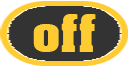
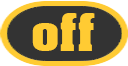
zmiana grafiki przeszkody, poprawiony wygląd trzech przyciskow oraz śmierć węża po dotknięciu przeszkody

diff --git a/Game/przeszkoda.py b/Game/przeszkoda.py
@@ -6,7 +6,7 @@ from Game.przeszkodaDirection import PrzeszkodaDirection
 class Przeszkoda():
     def __init__(self, game):
         self.game = game
-        self.commonPrzeszkodaImage2 = pygame.transform.scale(pygame.image.load("img/cytryna.png"), (self.game.gameBoard.sizeBlock, self.game.gameBoard.sizeBlock))
+        self.commonPrzeszkodaImage2 = pygame.transform.scale(pygame.image.load("img/bomb.png"), (self.game.gameBoard.sizeBlock, self.game.gameBoard.sizeBlock))
         self.przeszkoda_list = [self.commonPrzeszkodaImage2]
         self.przeszkody = []
 

diff --git a/Game/snake.py b/Game/snake.py
@@ -118,8 +118,8 @@ class Snake():
 
         if self.game.gameBoard.fields[int(self.purposeMove.x)][int(self.purposeMove.y)].przeszkodaType != PrzeszkodaType.none:
             if self.game.gameBoard.fields[int(self.purposeMove.x)][int(self.purposeMove.y)].przeszkodaType == PrzeszkodaType.common:
-                pygame.quit()
-                quit()
+                self.game.Defeat()
+                return
 
         if self.turningDirection == Direction.none:
             self.turningDirection = self.headSection.currentDirection
